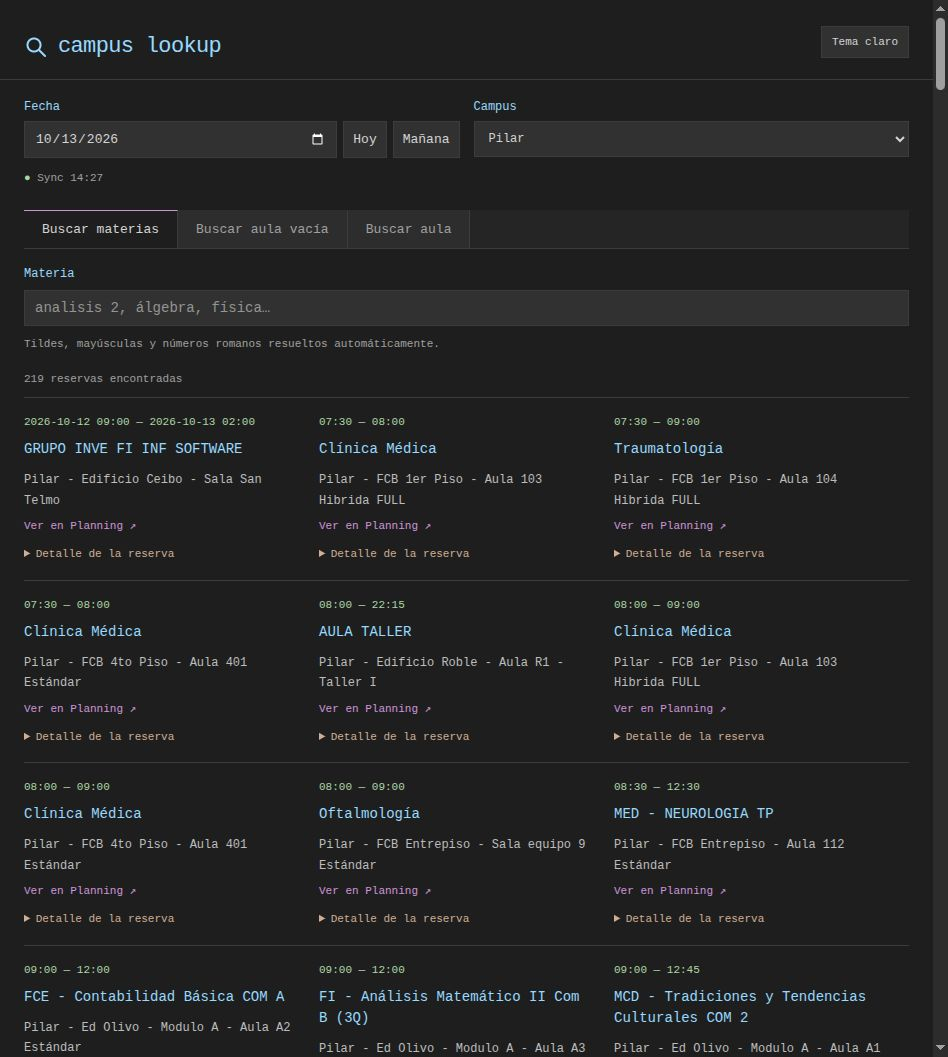
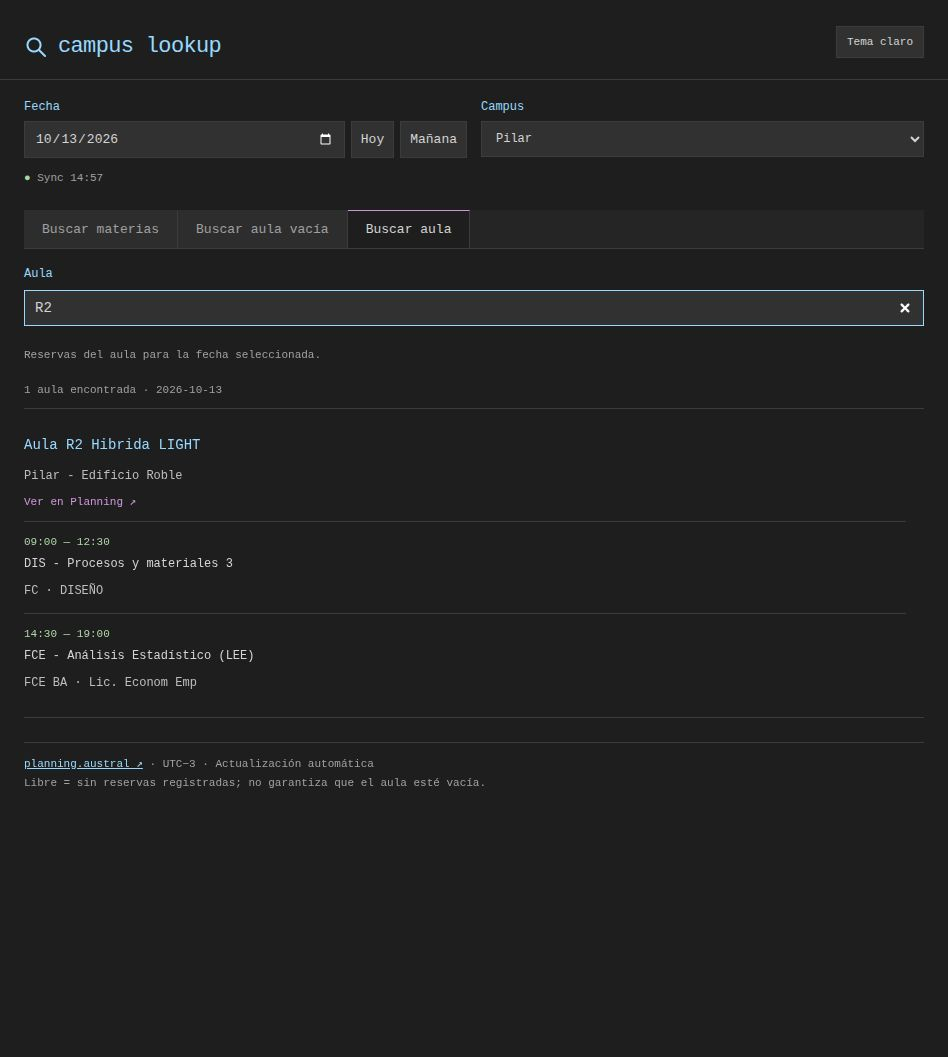
Add Planning faculty and career filters and hide empty details

diff --git a/index.html b/index.html
@@ -73,6 +73,8 @@ input::placeholder { color: #949494; }
 #results { display: grid; grid-template-columns: repeat(auto-fit,minmax(270px,1fr)); gap: 0; border-top: 1px solid var(--line); }
 .card { background: transparent; border-bottom: 1px solid var(--line); padding: 16px 18px 16px 0; overflow-wrap: anywhere; }
 .card h3 { margin: 10px 0; font-size: 14px; font-weight: 400; color: var(--blue); line-height: 1.5; }
+.subject-filters { margin: 10px 0; }
+.academic-label { color: var(--purple); font-size: 11px; line-height: 1.6; margin: 6px 0; }
 .schedule-booking { border-top: 1px solid var(--line); padding-top: 12px; margin-top: 12px; }
 .schedule-booking h4 { font-size: 12px; font-weight: 400; line-height: 1.6; margin: 6px 0; color: var(--text); }
 .badge { color: var(--green); font-size: 11px; }
@@ -94,7 +96,7 @@ input:focus, select:focus, button:focus-visible { outline: 1px solid var(--blue)
 <header><h1><svg class="logo" viewBox="0 0 24 24" fill="none" stroke="currentColor" stroke-width="2" stroke-linecap="round" aria-hidden="true"><circle cx="10" cy="10" r="6.5"/><path d="m15 15 6 6"/></svg>campus lookup</h1><button id="theme" type="button">Tema claro</button></header><main>
 <section class="panel"><div class="row"><div class="date-field"><label for="date">Fecha</label><div class="date-controls"><input id="date" type="date" required><button id="today" type="button">Hoy</button><button id="tomorrow" type="button">Mañana</button></div></div><label>Campus<select id="campus"><option>Pilar</option><option value="Bs. As.">Buenos Aires</option><option>Rosario</option><option value="">Todos</option></select></label></div><div id="status" role="status" aria-live="polite">Conectando con Planning…</div></section>
 <div class="tabs" role="tablist" aria-label="Tipo de búsqueda"><button id="subjects" role="tab" aria-controls="subjectForm" aria-selected="true">Buscar materias</button><button id="rooms" role="tab" aria-controls="roomForm" aria-selected="false" tabindex="-1">Buscar aula vacía</button><button id="roomSchedule" role="tab" aria-controls="scheduleForm" aria-selected="false" tabindex="-1">Buscar aula</button></div>
-<section class="panel"><div id="subjectForm" role="tabpanel" aria-labelledby="subjects"><label for="q">Materia</label><input id="q" type="search" placeholder="analisis 2, álgebra, física…" autocomplete="off"><div class="hint">Tildes, mayúsculas y números romanos resueltos automáticamente.</div></div><div id="roomForm" role="tabpanel" aria-labelledby="rooms" hidden><div class="row"><div class="time-field"><label for="from">Desde</label><div class="time-controls"><input id="from" type="time" value="12:00" required><button id="now" type="button">Ahora</button></div></div><div class="time-field"><label for="to">Hasta</label><div class="time-controls"><input id="to" type="time" value="14:00" required></div><div class="duration"><label for="hours">+</label><input id="hours" type="text" inputmode="decimal" value="2" aria-label="Duración en horas" autocomplete="off"><span>horas desde el inicio</span></div></div><label>Edificio<select id="building"><option value="default">Olivo A/B · Roble · Ceibo</option><option value="all">Todas las aulas</option></select></label></div><p id="intervalHint" class="hint" role="status"></p></div></section>
+<section class="panel"><div id="subjectForm" role="tabpanel" aria-labelledby="subjects"><label for="q">Materia</label><input id="q" type="search" placeholder="analisis 2, álgebra, física…" autocomplete="off"><div class="row subject-filters"><label for="faculty">Facultad / unidad<select id="faculty"><option value="">Todas</option></select></label><label for="career">Carrera / programa<select id="career"><option value="">Todas</option></select></label></div><div class="hint">Búsqueda sin tildes ni mayúsculas. Las carreras corresponden a la clasificación de Planning.</div></div><div id="roomForm" role="tabpanel" aria-labelledby="rooms" hidden><div class="row"><div class="time-field"><label for="from">Desde</label><div class="time-controls"><input id="from" type="time" value="12:00" required><button id="now" type="button">Ahora</button></div></div><div class="time-field"><label for="to">Hasta</label><div class="time-controls"><input id="to" type="time" value="14:00" required></div><div class="duration"><label for="hours">+</label><input id="hours" type="text" inputmode="decimal" value="2" aria-label="Duración en horas" autocomplete="off"><span>horas desde el inicio</span></div></div><label>Edificio<select id="building"><option value="default">Olivo A/B · Roble · Ceibo</option><option value="all">Todas las aulas</option></select></label></div><p id="intervalHint" class="hint" role="status"></p></div></section>
 <section id="scheduleForm" class="panel" role="tabpanel" aria-labelledby="roomSchedule" hidden><label for="roomQuery">Aula</label><input id="roomQuery" type="search" placeholder="R2, C8.1, B7, Ceibo…" autocomplete="off"><p class="hint">Reservas del aula para la fecha seleccionada.</p></section>
 <h2 id="count">Cargando…</h2><div id="results" aria-live="polite"></div><footer><a href="https://planning-campus.austral.edu.ar:44443/" target="_blank" rel="noopener">planning.austral ↗</a> · UTC−3 · Actualización automática<br>Libre = sin reservas registradas; no garantiza que el aula esté vacía.</footer></main>
 <script>
@@ -233,17 +235,67 @@ function stamp(text) {
   if (!Number.isFinite(t) || relativeDate(0, new Date(t)) !== date) throw Error('Fecha de reserva inválida.');
   return t;
 }
+function meaningfulDescription(text, title = '') {
+  return String(text ?? '').split(/\r?\n/).filter(line => {
+    if (!line.trim()) return false;
+    const field = line.match(/^\s*([^:]+):\s*(.*)$/);
+    const value = tidy(field ? field[2] : line);
+    if (!value || /^(?:[-–—.]+|n\/?a|sin valor|null)$/i.test(value)) return false;
+    if ((!field || norm(field[1]) === 'detalle') && norm(value) === norm(title)) return false;
+    return true;
+  }).join('\n').trim();
+}
+function careerLabel(value) { return tidy(value).replace(/^[A-Z0-9]+\s*-\s*/i, '') || 'Sin clasificación'; }
+function academicLabel(booking) {
+  return [booking.faculty, booking.career ? careerLabel(booking.career) : ''].filter(Boolean).join(' · ');
+}
 function parseBookings(text) {
   const rows = csv(text), head = rows.shift() || [];
   const cols = ['Area - Room','Brief Description','Start Time - End Time','Full Description'].map(x => head.indexOf(x));
   if (cols.slice(0, 3).some(x => x < 0)) throw Error('Planning no devolvió el reporte público esperado.');
+  const unitCol = head.findIndex(h => /^(unidad|unity|facultad)$/i.test(tidy(h)));
+  let careerCol = head.findIndex(h => /^(ceco|carrera|programa)$/i.test(tidy(h)));
+  // En el CSV actual Ceco tiene encabezado vacío entre Unidad y Orden.
+  if (careerCol < 0 && unitCol >= 0 && tidy(head[unitCol + 1]) === '' && tidy(head[unitCol + 2]) === 'Orden') careerCol = unitCol + 1;
+  const orderCol = head.indexOf('Orden');
   return rows.map(r => {
     const times = (r[cols[2]] || '').split(' - ');
     if (times.length !== 2) throw Error('Intervalo de reserva desconocido.');
-    const start = stamp(times[0]), end = stamp(times[1]);
+    const start = stamp(times[0]), end = stamp(times[1]), title = r[cols[1]] || '(sin nombre)';
     if (end <= start) throw Error('Reserva con intervalo inválido.');
-    return {room: tidy(r[cols[0]]), title: r[cols[1]] || '(sin nombre)', start, end, description: cols[3] < 0 ? '' : r[cols[3]]};
+    return {
+      room: tidy(r[cols[0]]), title, start, end,
+      description: meaningfulDescription(cols[3] < 0 ? '' : r[cols[3]], title),
+      faculty: unitCol < 0 ? '' : tidy(r[unitCol]),
+      career: careerCol < 0 ? '' : tidy(r[careerCol]),
+      order: orderCol < 0 ? '' : tidy(r[orderCol])
+    };
   });
+}
+function selectedDayBookings() {
+  if (!data) return [];
+  const start = Date.parse(data.date + 'T00:00:00-03:00');
+  return data.bookings.filter(b => overlaps(b, start, start + 86400000));
+}
+function resetOptions(select, values, emptyLabel, label = value => value) {
+  const previous = select.value;
+  select.replaceChildren();
+  const all = document.createElement('option'); all.value = ''; all.textContent = emptyLabel; select.append(all);
+  for (const value of values) {
+    const option = document.createElement('option'); option.value = value || '__unclassified__'; option.textContent = value ? label(value) : 'Sin clasificación'; select.append(option);
+  }
+  select.value = [...select.children].some(o => o.value === previous) ? previous : '';
+}
+function classificationMatches(actual, selected) { return !selected || (selected === '__unclassified__' ? !actual : actual === selected); }
+function updateAcademicFilters() {
+  const bookings = selectedDayBookings();
+  const units = [...new Set(bookings.map(b => b.faculty || ''))].sort((a, b) => a.localeCompare(b, 'es'));
+  resetOptions($('faculty'), units, 'Todas');
+  const careers = [...new Set(bookings.filter(b => classificationMatches(b.faculty, $('faculty').value)).map(b => b.career || ''))].sort((a, b) => careerLabel(a).localeCompare(careerLabel(b), 'es'));
+  resetOptions($('career'), careers, 'Todas', careerLabel);
+}
+function subjectMatches(booking) {
+  return classificationMatches(booking.faculty, $('faculty').value) && classificationMatches(booking.career, $('career').value);
 }
 async function read(path, signal) {
   const controller = new AbortController(), cancel = () => controller.abort();
@@ -268,6 +320,7 @@ function card(title, tag, lines, url, description) {
   const h = document.createElement('h3'); h.textContent = title; el.append(h);
   for (const line of lines) {const p = document.createElement('p'); p.textContent = line; el.append(p);}
   if (url) {const a = document.createElement('a'); a.href = url; a.target = '_blank'; a.rel = 'noopener'; a.textContent = 'Ver en Planning ↗'; el.append(a);}
+  description = meaningfulDescription(description, title);
   if (description) {const d = document.createElement('details'), s = document.createElement('summary'); s.textContent = 'Detalle de la reserva'; d.append(s, document.createTextNode(description)); el.append(d);}
   return el;
 }
@@ -318,14 +371,14 @@ function render() {
   }
   if (mode === 'subjects') {
     const start = Date.parse(data.date + 'T00:00:00-03:00'), end = start + 86400000;
-    const found = data.bookings.filter(b => overlaps(b, start, end)).map(b => ({...b, score: score(b.title, $('q').value)}))
+    const found = data.bookings.filter(b => overlaps(b, start, end) && subjectMatches(b)).map(b => ({...b, score: score(b.title, $('q').value)}))
       .filter(b => Number.isFinite(b.score)).sort((a, b) => a.score - b.score || a.start - b.start);
     $('count').textContent = `${found.length} reservas encontradas`;
     for (const b of found) {
       const room = data.rooms.find(r => norm(r.full) === norm(b.room));
       const dates = relativeDate(0, new Date(b.start)) !== relativeDate(0, new Date(b.end));
       const tag = dates ? `${relativeDate(0, new Date(b.start))} ${clock(b.start)} — ${relativeDate(0, new Date(b.end))} ${clock(b.end)}` : `${clock(b.start)} — ${clock(b.end)}`;
-      $('results').append(card(b.title, tag, [b.room], room ? link(room) : null, b.description));
+      $('results').append(card(b.title, tag, [b.room, academicLabel(b)].filter(Boolean), room ? link(room) : null, b.description));
     }
   } else if (mode === 'roomSchedule') {
     const query = $('roomQuery').value.trim();
@@ -346,9 +399,12 @@ function render() {
         const time = document.createElement('span'); time.className = 'badge'; time.textContent = bookingLabel(booking);
         const title = document.createElement('h4'); title.textContent = booking.title;
         item.append(time, title);
-        if (booking.description) {
+        const label = academicLabel(booking);
+        if (label) { const p = document.createElement('p'); p.className = 'academic-label'; p.textContent = label; item.append(p); }
+        const description = meaningfulDescription(booking.description, booking.title);
+        if (description) {
           const details = document.createElement('details'), summary = document.createElement('summary');
-          summary.textContent = 'Detalle'; details.append(summary, document.createTextNode(booking.description)); item.append(details);
+          summary.textContent = 'Detalle'; details.append(summary, document.createTextNode(description)); item.append(details);
         }
         el.append(item);
       }
@@ -421,7 +477,7 @@ async function load() {
       }));
     }
     if (version !== loadVersion || signal.aborted) return;
-    data = {bookings, rooms, date, key}; pendingKey = ''; lastLoadedAt = Date.now();
+    data = {bookings, rooms, date, key}; pendingKey = ''; lastLoadedAt = Date.now(); updateAcademicFilters();
     $('status').className = partial.length ? 'error' : '';
     $('status').textContent = `Sync ${clock(lastLoadedAt)}${partial.length ? ' · Inventario incompleto: ' + partial.join(', ') : ''}`;
     render(); scheduleRefresh(partial.length ? 30000 : 300000);
@@ -442,6 +498,8 @@ $('to').addEventListener('input', () => {
   $('hours').value = Number.isFinite(delta) ? String(Math.round(delta / 60 * 1000000) / 1000000) : '';
   updateRange();
 });
+$('faculty').addEventListener('change', () => { $('career').value = ''; updateAcademicFilters(); render(); });
+$('career').addEventListener('change', render);
 for (const id of ['q', 'roomQuery', 'building']) $(id).addEventListener('input', render);
 const tabs = ['subjects', 'rooms', 'roomSchedule'];
 function selectTab(tab) {

diff --git a/README.md b/README.md
@@ -39,8 +39,8 @@ Un HTML o favorito común no puede ejecutar un archivo Python por su ruta. La in
 ## Usar
 
 - Elegí fecha o **Hoy / Mañana**, y campus. Los datos se cargan automáticamente.
-- **Buscar materias**: `analisis 2` encuentra `Análisis Matemático II`. Ignora tildes y mayúsculas, reconoce romanos I–X y tolera pequeños errores. Distingue el número de la materia del de la comisión.
-- **Buscar aula**: escribí `R2`, `C8.1`, `B7` o un edificio. Muestra las reservas de cada aula para la fecha seleccionada, ordenadas por hora, y también aulas sin reservas. Incluye laboratorios y talleres que figuran como aulas numeradas.
+- **Buscar materias**: `analisis 2` encuentra `Análisis Matemático II`. Ignora tildes y mayúsculas, reconoce romanos I–X y tolera pequeños errores. Distingue el número de la materia del de la comisión. Podés combinar la búsqueda con **Facultad / unidad** y **Carrera / programa**; al elegir una facultad, el selector de carreras muestra sus clasificaciones del día.
+- **Buscar aula**: escribí `R2`, `C8.1`, `B7` o un edificio. Muestra las reservas de cada aula para la fecha seleccionada, ordenadas por hora, y también aulas sin reservas. Incluye laboratorios y talleres que figuran como aulas numeradas. Cada reserva muestra su unidad y carrera/programa. **Detalle** solo aparece si hay contenido; se eliminan las etiquetas vacías y el título repetido.
 - **Buscar aula vacía**: elegí **Desde** o pulsá **Ahora**. Ahora selecciona la fecha y hora actuales de Buenos Aires.
 - En **Hasta**, podés editar la hora o poner **+ N horas** desde el inicio: acepta `1,5`, `1.5` y `0.5`. La duración mínima es un minuto y la máxima 24 horas; se redondea al minuto más cercano.
 - Si termina al día siguiente, lo indica y consulta las reservas de ambos días. Una hora final anterior al inicio se interpreta como el día siguiente. Para un intervalo de exactamente 24 horas, escribí `24` en la duración.
@@ -68,9 +68,9 @@ node tests/app.test.cjs
 python3 -m unittest discover -s tests -p 'test_*.py'
 ```
 
-Node solo es necesario para ejecutar las pruebas del buscador, no para usar la app. Las pruebas cubren comisiones, fechas UTC−3, cambio de año, decimales, medianoche, límites de reservas, CSV, cambio rápido de filtros y tema claro sin almacenamiento. Pasaron 13 pruebas de JavaScript y 9 de Python. También se comprobó el inicio, cierre y reinicio desde favoritos con systemd y la interfaz con datos reales en Brave.
+Node solo es necesario para ejecutar las pruebas del buscador, no para usar la app. Las pruebas cubren comisiones, fechas UTC−3, cambio de año, decimales, medianoche, límites de reservas, CSV, cambio rápido de filtros y tema claro sin almacenamiento. Pasaron 17 pruebas de JavaScript y 9 de Python. También se comprobó el inicio, cierre y reinicio desde favoritos con systemd y la interfaz con datos reales en Brave.
 
-Capturas: [tema oscuro](docs/dark.jpg) · [tema claro](docs/light.jpg) · [conteo corregido](docs/availability-fixed.jpg) · [reservas por aula](docs/room-schedule.jpg).
+Capturas: [tema oscuro](docs/dark.jpg) · [tema claro](docs/light.jpg) · [conteo corregido](docs/availability-fixed.jpg) · [reservas por aula](docs/room-schedule.jpg) · [filtros académicos](docs/academic-filters.jpg).
 
 ## Compartir
 
@@ -79,3 +79,26 @@ El [repositorio es privado](https://github.com/Vontk/planning-austral). Para acc
 ## Corrección del conteo
 
 El filtro anterior excluía R1, R4, R5, R7, C5, C6 y C7 por contener “Lab”, “Biolab” o “Taller”. Se corrigió para usar el código del aula. En la auditoría del 13/10/2026, de 14:23 a 16:23, se verificaron seis aulas sin reservas: R4, R7, C2, C5, C6 y C7. El inventario habitual pasó de 41 a 47 (48 del original menos SUM). Estos son resultados históricos de esa consulta, no disponibilidad garantizada para otro momento.
+
+## Campos de Planning
+
+Los filtros usan los datos del reporte, no inferencias por el título:
+
+- **Unidad**: código de facultad o unidad, por ejemplo FI, FCB o FCE BA.
+- **Ceco**: clasificación que suele identificar una carrera o programa. En el CSV actual su encabezado está vacío, entre Unidad y Orden; se verificó contra los detalles públicos de la reserva. Puede contener categorías administrativas y no garantiza que toda reserva esté correctamente clasificada.
+- **Orden**: actividad/programa adicional; muchas clases tienen el valor genérico “Reuniones Varias”, por eso no se usa como carrera.
+
+La descripción puede tener Responsable o Director-Profesor aunque Detalle esté vacío. Se conserva esa información cuando está completa.
+
+## Qué queda funcionando cuando cerrás la página
+
+Al entrar a `http://127.0.0.1:18787/`, systemd inicia `server.py` si no está activo. Python sirve la interfaz y lee Planning mientras haya alguna pestaña abierta. Después de cerrar la última, detecta la desconexión y termina tras unos 6–9 segundos. Recargar no lo termina.
+
+**No queda Python ejecutándose permanentemente.** Solo queda el socket local gestionado por systemd, listo para iniciar la app la próxima vez. Si dejás una pestaña abierta, incluso en segundo plano, Python sí sigue activo. Si se inicia sin llegar a abrir una página, termina después de 90 segundos.
+
+Para comprobarlo desde una terminal (estas consultas no inician Python):
+
+```bash
+systemctl --user is-active campus-lookup.service  # Python: active o inactive
+systemctl --user is-active campus-lookup.socket   # Punto de entrada: active
+```
